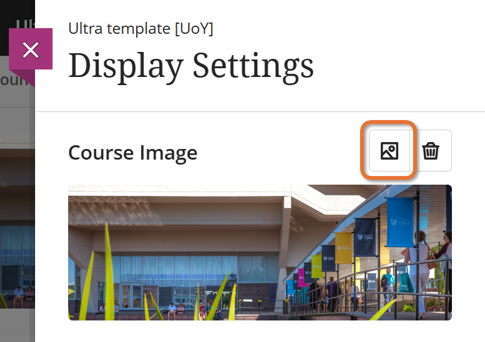
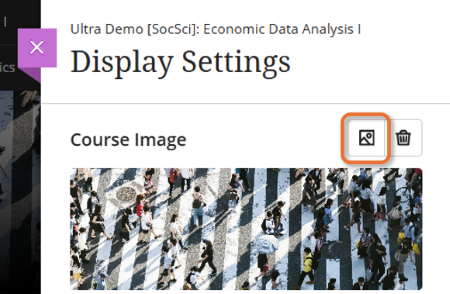
course-image: update for new nav

diff --git a/docs/ultra/course-image.md b/docs/ultra/course-image.md
@@ -7,32 +7,43 @@ tags:
 
 !!! Summary
 
-    The Course Image is a customisable site banner image.
+    The Course Image is a customisable site banner image that appears within sites and as a thumbnail on the Courses page.
 
 !!! principle "Relevant [VLE site design principles](../ultra/site-design-principles.md)"
 
     - 2.3 Essential: Design and images adhere to the UoY brand.
 
-The Course Image is a site banner image. It appears in two locations:
+## Updated navigation: January 2026
 
-- Course List: appears in the tile view of the module site 
-- Within the site: a banner across the main 'Content' view of the site.
+An updated navigation system is coming in January 2026. This will make it easier to move around the Ultra system and between sites, and makes better use of screen space.
 
-![Decorative](images/course-image-example.png)
+As part of this, the Course Image (banner) becomes full width, with the site name overlaid. If no Course Image is set, a plain placeholder banner is used.
 
-You can change the Course Image supplied with your site template to a decorative image related to your module.
+**The advice and images below have been updated to reflect this new navigation.**
+
+---
+
+## Banner & thumbnails
+
+Within sites, the Course Image is full-width site banner. The site name and Ycode are overlaid on the bottom portion of the banner.
+
+![Decorative](images/course-image-banner.png)
+
+The Course image also appears as thumbnails on the Courses page (tiled view) and the recent Courses list:
+
+![Decorative](images/course-image-thumbnails.png)
 
 ## Add or update the course image
 
 !!! Tip
 
-    Course banners must be decorative only, and also resize to fit screen size. Because of this, avoid including text in your Course Image.
+    Avoid including text in your Course Image; banners should be purely decorative and text may be obscured by resizing to fit different screen sizes.
 
 To add or update the Course Image:
 
-1. In the **Details &  Actions** menu, click **Course Image**, or if you already have a Course Image you can click the **edit/pencil icon** on the banner.
-</br> ![Decorative](images/course-image-edit-icons.png)
-2. On the *Display Settings* panel, click the **image icon**.
+1. Click the **edit/pencil icon** on the banner, or click **Edit display settings** under *Course Image* in the *Details &  Actions* panel.
+</br> ![Decorative](images/course-image-edit.png)
+2. In the *Display settings* panel, click the **image icon** above the image preview.
 </br> ![Decorative](images/course-image-image-icon.png)
 3. On the *Insert image* panel, there are two ways to add an image:
     - **Upload from Device**: drag and drop an image file or click **Upload file** and select an image (must be at least 1200x2400 pixels).
@@ -40,35 +51,31 @@ To add or update the Course Image:
 </br> ![Decorative](images/course-image-insert-image.png)
 4. Preview the image and click **Next**.
 5. Position and zoom the image as required. Consider how the image will be resized to fit screen sizes; the central portion of the grid will always be shown. Click **Save**.
-</br> ![Decorative](images/course-image-position-zoom.png)
+</br>![Decorative](images/course-image-position-zoom.png)
 6. Check that the **Course Image** toggle is set to **On**.
 7. By default, the banner image is marked as decorative; leave this ticked.
 </br>![Alternative text section, with decorative label box ticked. Note: This image provides no additional value and is only decorative. It will be hidden for people using assistive technologies.](images/course-image-alt-text.png)
 8. Click **Save**.
 
-<!-- You can also watch a demonstration of adding a Course Image:
-<iframe width="560" height="315" src="https://www.youtube.com/embed/O0B4R8RyBYU" title="Course images in Ultra" frameborder="0" allow="accelerometer; autoplay; clipboard-write; encrypted-media; gyroscope; picture-in-picture" allowfullscreen></iframe>
-[Course images in Ultra [YouTube]](https://youtu.be/O0B4R8RyBYU) -->
-
 ## Remove the course image
 
 !!! Tip
 
-    An image will always be shown in the thumbnail view in the Courses list. If there is no Course Image in your site, a default image will be used.
+    If you hide or delete the course image, a default plain placeholder image is used instead.
 
-To **hide** the course image in the site but keep it in the Courses list thumbnail:
+To **hide** the course image in the site but keep it in the thumbnails:
 
-1. In the **Details &  Actions** menu, click **Course Image**, or click the **edit/pencil icon** on the banner.
-2. Set the *Course Banner* toggle to **Off**.
-
-![Course Banner panel. The course banner is displayed at the top of the course page using the Course Image. You can turn the banner on or off using the control below.](images/course-image-banner-off.png)
+1. Click the **edit/pencil icon** on the banner, or click **Edit display settings** under *Course Image* in the *Details &  Actions* panel.
+2. In the *Display settings* panel, set the *Course Banner* toggle to **Off**.
+</br>![Course Banner panel. The course banner is displayed at the top of the course page using the Course Image. You can turn the banner on or off using the control below.](images/course-image-banner-off.png)
 
 To completely **delete** the course image and use a default image in the Courses list thumbnail:
 
-1. In the **Details &  Actions** menu, click **Course Image**, or click the **edit/pencil icon** on the banner.
-2. Click the **bin icon** and **Delete** when prompted.
-
-![Warning message: Are you sure you want to delete this image? By deleting this image the course banner will not be displayed and a default image will be used for the course thumbnail.](images/course-image-delete.png)
+1. Click the **edit/pencil icon** on the banner, or click **Edit display settings** under *Course Image* in the *Details &  Actions* panel.
+2. In the *Display settings* panel, click the **bin icon** above the image preview.
+</br> ![Decorative](images/course-image-bin.png) 
+3. On the *Delete image* panel, click **Delete**.
+</br>![Warning message: Are you sure you want to delete this image? By deleting this image the course banner will not be displayed and a default image will be used for the course thumbnail.](images/course-image-delete.png)
 
 ## Sourcing images
 
